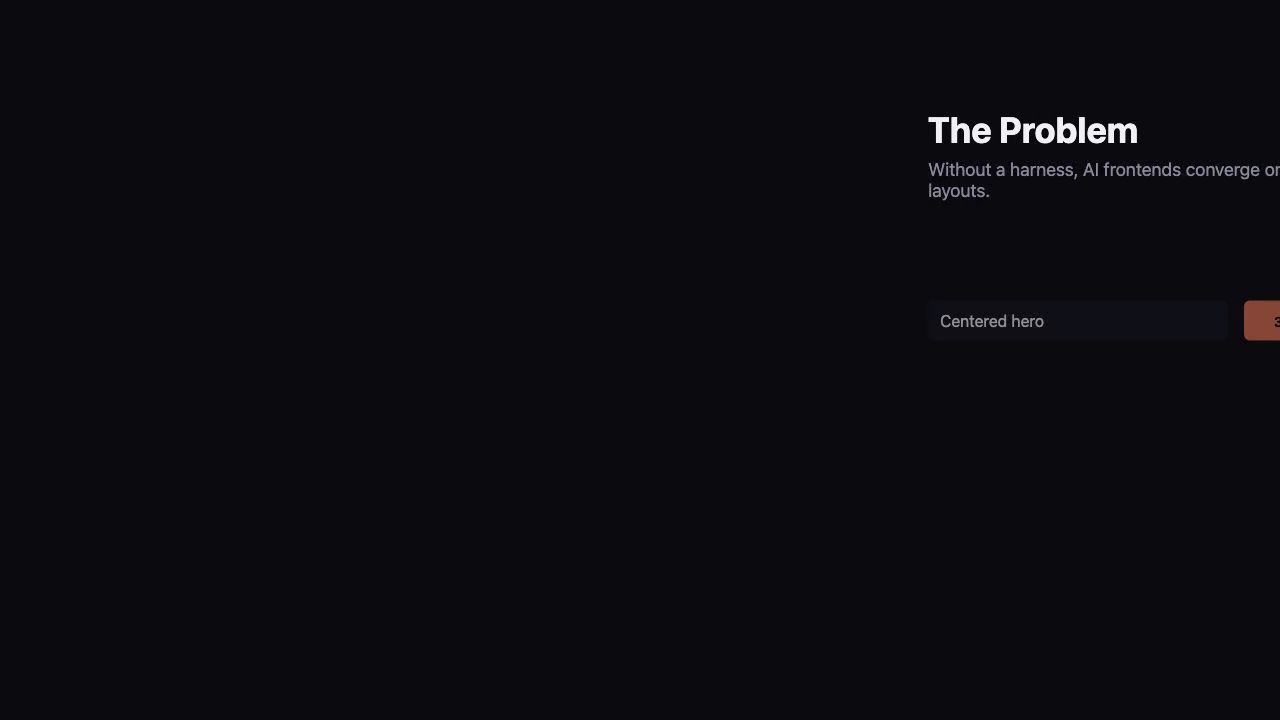
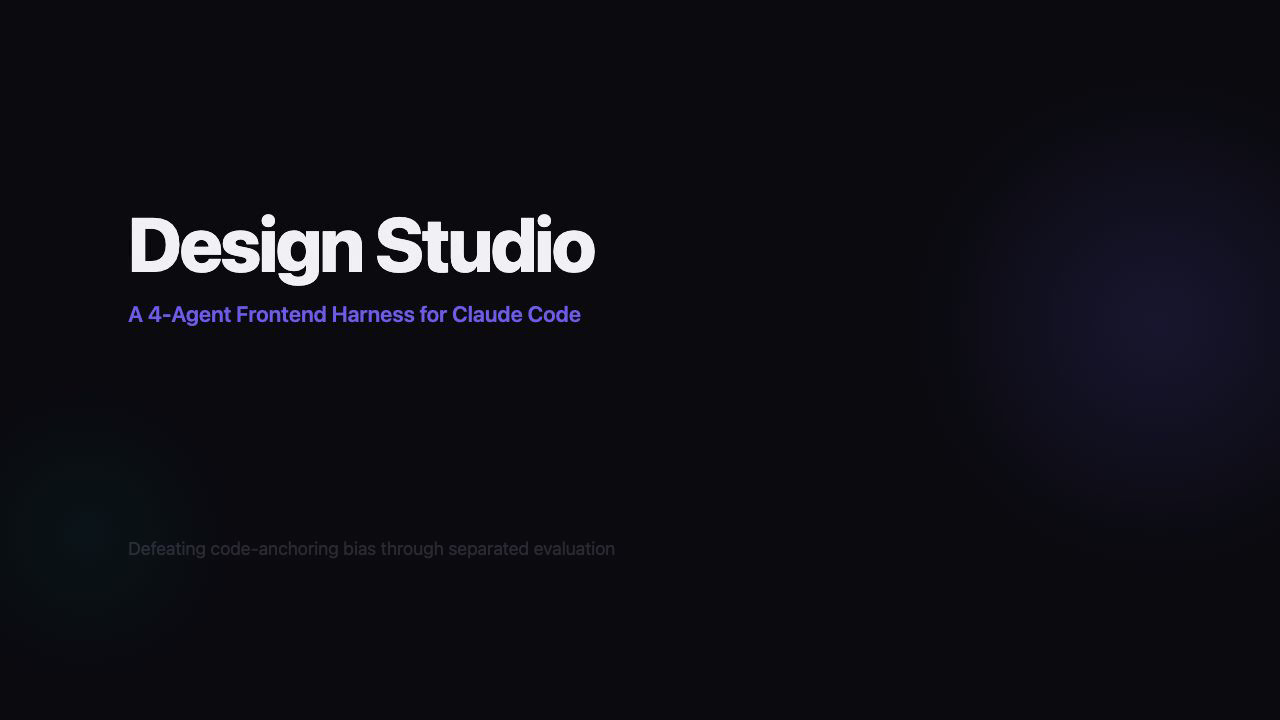
Add LICENSE, fix video clipping bug, embed video in README, autoplay on site

diff --git a/docs/index.html b/docs/index.html
@@ -110,12 +110,12 @@
         Makes websites that look original, not like every other AI template.
         Works inside Claude Code with no extra setup.
       </p>
-      <a href="https://github.com/George-RD/design-studio" class="btn">View on GitHub</a>
+      <a href="https://george-rd.github.io/design-studio" class="btn">View the Site</a>
       <a href="#install" class="btn btn-outline">Install</a>
     </div>
 
     <div class="video-container">
-      <video controls poster="poster.jpg">
+      <video controls autoplay muted loop playsinline poster="poster.jpg">
         <source src="video-720p.mp4" type="video/mp4" />
       </video>
     </div>

diff --git a/README.md b/README.md
@@ -4,6 +4,14 @@ A tool for Claude Code that makes better-looking websites. It splits the work in
 
 **[See the live site →](https://george-rd.github.io/design-studio/)**
 
+<p align="center">
+  <video controls autoplay muted loop playsinline width="720">
+    <source src="https://george-rd.github.io/design-studio/video-720p.mp4" type="video/mp4" />
+  </video>
+  <br/>
+  <em>23-second overview — how Design Studio defeats code-anchoring bias</em>
+</p>
+
 ## The Problem
 
 When you ask AI to build a website, it usually makes the same thing every time: a centered headline, a button, some cards in a grid. It looks fine, but it's boring. Every AI site starts to look the same.